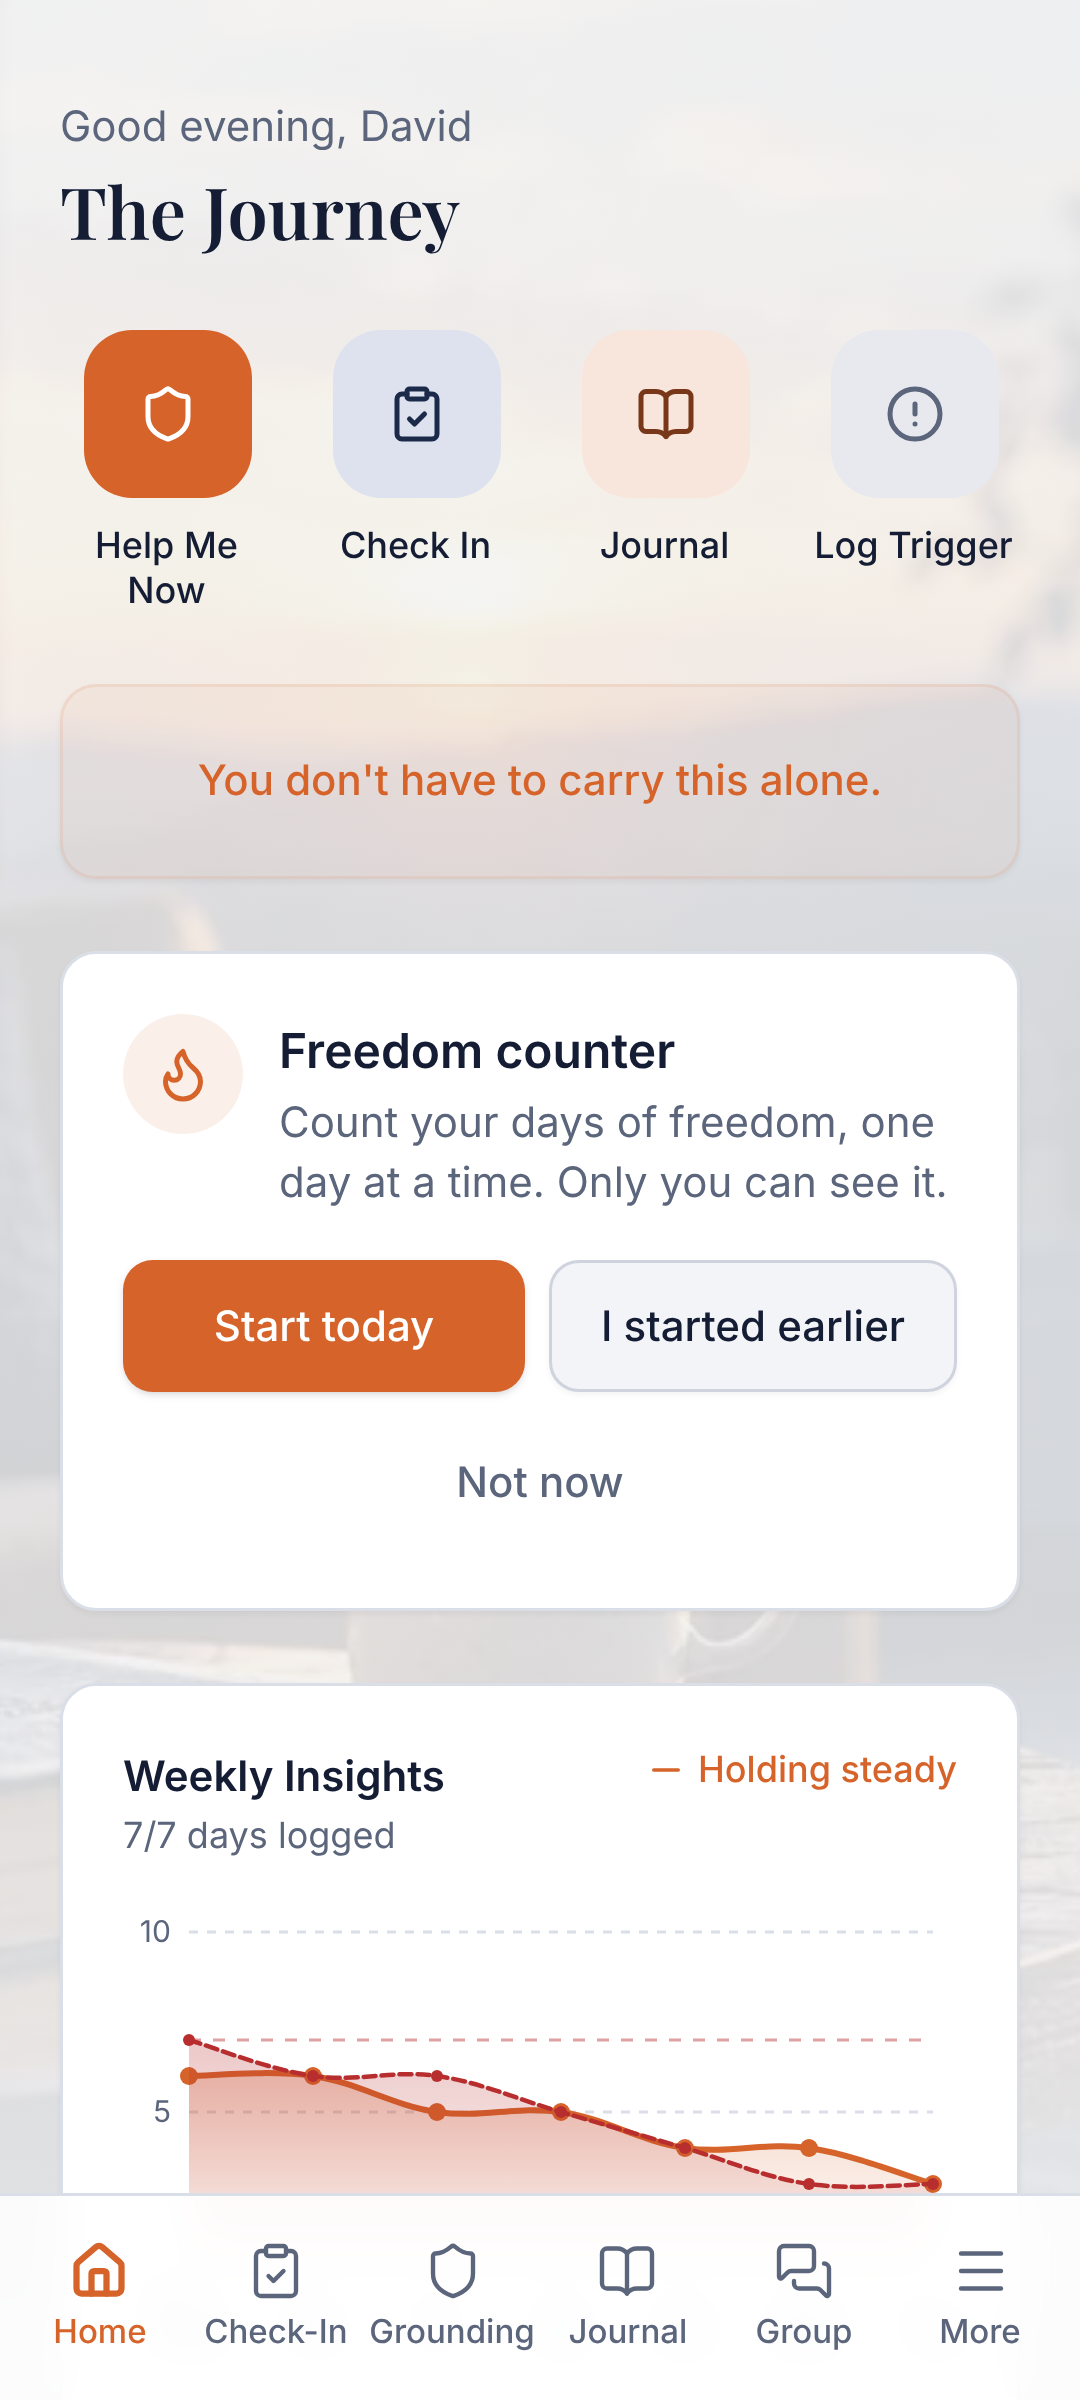
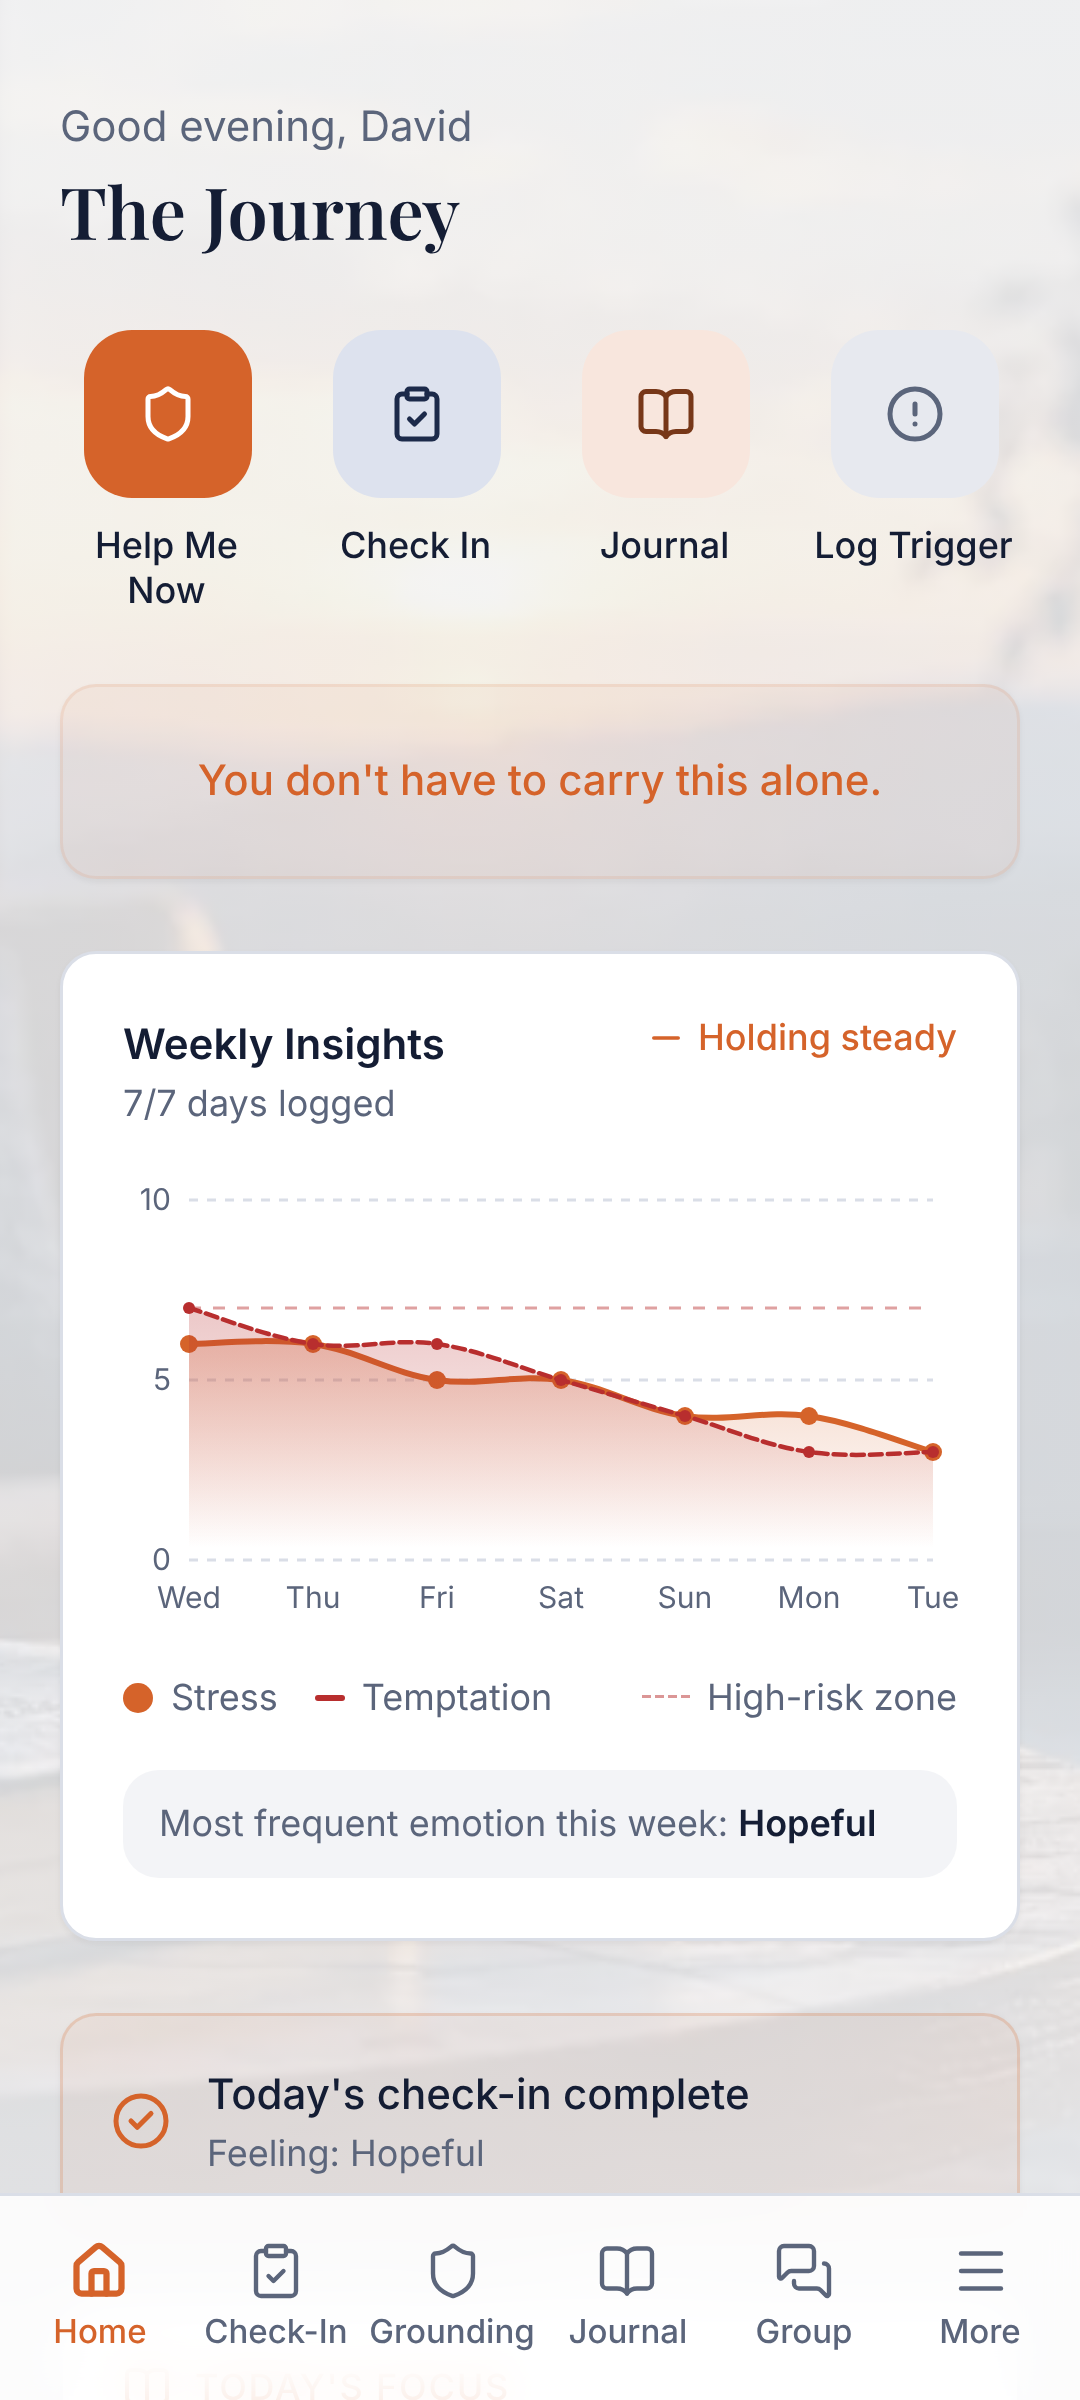
Freedom counter at the bottom of Home, with a small badge at the top
- The full freedom counter card now sits below the other Home items.
- A small badge in the top-right corner of Home shows the flame,
  "Freedom", the day count and "Days of Freedom"; tapping it scrolls
  to the full counter. It appears once the counter has started and
  follows the Settings show/hide switch.

Claude-Session: https://claude.ai/code/session_01TEFAANzDiQcpsyVRuxpyzX

Changed region(s): [[0.0306, 0.6562, 0.9472, 0.9375], [0.0917, 0.4062, 0.8861, 0.625], [0.6417, 0.4062, 0.8861, 0.4375]]

diff --git a/src/components/FreedomCard.tsx b/src/components/FreedomCard.tsx
@@ -60,7 +60,7 @@ export function FreedomCard({ profile, onReachOut }: { profile: Profile; onReach
 
   if (!profile.freedom_start) {
     return (
-      <Card className="space-y-4 p-5">
+      <Card id="freedom" className="scroll-mt-6 space-y-4 p-5">
         <div className="flex items-start gap-3">
           <span className="flex size-10 shrink-0 items-center justify-center rounded-full bg-primary/10 text-primary">
             <Flame className="size-5" aria-hidden="true" />
@@ -111,7 +111,7 @@ export function FreedomCard({ profile, onReachOut }: { profile: Profile; onReach
   const best = Math.max(profile.freedom_best_days, days)
 
   return (
-    <Card className="space-y-4 p-5">
+    <Card id="freedom" className="scroll-mt-6 space-y-4 p-5">
       <div className="flex items-start justify-between gap-3">
         <div>
           <p className="flex items-center gap-1.5 text-xs font-semibold uppercase tracking-wide text-primary">
@@ -302,5 +302,36 @@ function Celebration({ days, shareKey }: { days: number; shareKey: string }) {
         {shared && <p className="text-xs font-medium text-primary">Shared with your group.</p>}
       </div>
     </div>
+  )
+}
+
+/** Small corner badge on Home: the day count. Tapping it scrolls to the full counter. */
+export function FreedomBadge({ profile }: { profile: Profile }) {
+  if (profile.track !== 'men' || profile.freedom_hidden || !profile.freedom_start) return null
+  const days = daysOfFreedom(profile.freedom_start)
+  return (
+    <a
+      href="#freedom"
+      onClick={(e) => {
+        e.preventDefault()
+        document.getElementById('freedom')?.scrollIntoView({ behavior: 'smooth', block: 'start' })
+      }}
+      aria-label={
+        days === 0
+          ? 'Day 1 of freedom. Show freedom counter'
+          : `${days} days of freedom. Show freedom counter`
+      }
+      className="flex min-w-[5.5rem] shrink-0 flex-col items-center rounded-xl border border-primary/20 bg-card/90 px-3 py-2 text-center shadow-xs transition-colors hover:bg-primary/5 active:scale-[0.98]"
+    >
+      <span className="flex items-center gap-1 text-[10px] font-semibold uppercase tracking-wide text-primary">
+        <Flame className="size-3" aria-hidden="true" /> Freedom
+      </span>
+      <span className="mt-0.5 font-display text-2xl font-semibold leading-none text-foreground">
+        {days === 0 ? 'Day 1' : days}
+      </span>
+      <span className="mt-0.5 text-[10px] leading-tight text-muted-foreground">
+        {days === 1 ? 'Day of Freedom' : 'Days of Freedom'}
+      </span>
+    </a>
   )
 }

diff --git a/tests/e2e/journey.spec.ts b/tests/e2e/journey.spec.ts
@@ -595,7 +595,7 @@ test('freedom counter: start, milestones, and starting again with grace', async 
   const card = page.getByText('Freedom counter')
   await expect(card).toBeVisible()
   await page.getByRole('button', { name: 'Start today' }).click()
-  await expect(page.getByText('Day 1', { exact: true })).toBeVisible()
+  await expect(page.locator('#freedom').getByText('Day 1', { exact: true })).toBeVisible()
   await expect(page.getByText(/1 day to 1 day/)).toBeVisible()
 
   // Started 30 days ago: a milestone to celebrate.
@@ -608,6 +608,10 @@ test('freedom counter: start, milestones, and starting again with grace', async 
   await page.getByLabel('My current stretch of freedom began on').fill(thirtyDaysAgo)
   await page.getByRole('button', { name: 'Save' }).click()
   await expect(page.getByText('30 days of freedom!')).toBeVisible()
+  // The small badge at the top shows the count too, and jumps to the counter.
+  const badge = page.getByRole('link', { name: '30 days of freedom. Show freedom counter' })
+  await expect(badge).toBeVisible()
+  await expect(badge).toContainText('Days of Freedom')
   await expect(page.getByText(/30 days to 60 days/)).toBeVisible()
 
   // Starting again: grace, not shame, and the longest stretch is kept.
@@ -616,7 +620,7 @@ test('freedom counter: start, milestones, and starting again with grace', async 
   await expect(grace.getByText(/new every morning/)).toBeVisible()
   await expect(grace.getByText(/Your 30 days still count/)).toBeVisible()
   await grace.getByRole('button', { name: 'Start again today' }).click()
-  await expect(page.getByText('Day 1', { exact: true })).toBeVisible()
+  await expect(page.locator('#freedom').getByText('Day 1', { exact: true })).toBeVisible()
   await expect(page.getByText(/Longest: 30 days/)).toBeVisible()
 
   // It can be hidden in Settings.
@@ -625,7 +629,7 @@ test('freedom counter: start, milestones, and starting again with grace', async 
   await page.getByRole('button', { name: 'Save Settings' }).click()
   await page.goto('/home')
   await expect(page.getByRole('heading', { name: 'The Journey' })).toBeVisible()
-  await expect(page.getByText(/of freedom|Day 1/)).toHaveCount(0)
+  await expect(page.getByText(/of freedom|Day 1/i)).toHaveCount(0)
 
   expect(errors).toEqual([])
 })

diff --git a/src/pages/Home.tsx b/src/pages/Home.tsx
@@ -16,7 +16,7 @@ import {
 } from 'lucide-react'
 import { paths } from '@/app/routes'
 import { AboutYouPrompt } from '@/components/AboutYouPrompt'
-import { FreedomCard } from '@/components/FreedomCard'
+import { FreedomBadge, FreedomCard } from '@/components/FreedomCard'
 import { InstallPrompt } from '@/components/InstallPrompt'
 import { NotificationsPrompt } from '@/components/NotificationsPrompt'
 import { PullToRefresh } from '@/components/PullToRefresh'
@@ -62,22 +62,25 @@ export default function Home() {
       onRefresh={() => Promise.all([profile.refetch(), today.refetch(), week.refetch(), contacts.refetch()])}
     >
       <div className="mx-auto max-w-lg space-y-6 px-5 pb-4 pt-8">
-        <header>
-          <p className="text-sm text-muted-foreground">
-            {greeting()}
-            {name ? `, ${name}` : ''}
-          </p>
-          <h1 className="mt-0.5 font-display text-2xl font-semibold text-foreground">The Journey</h1>
+        <header className="flex items-start justify-between gap-3">
+          <div className="min-w-0">
+            <p className="text-sm text-muted-foreground">
+              {greeting()}
+              {name ? `, ${name}` : ''}
+            </p>
+            <h1 className="mt-0.5 font-display text-2xl font-semibold text-foreground">The Journey</h1>
+          </div>
+          <FreedomBadge profile={profile.data} />
         </header>
         {!profile.data.gender && <AboutYouPrompt profileId={profile.data.id} />}
         <NotificationsPrompt />
         <InstallPrompt />
         <QuickActions onHelp={() => setHelpOpen(true)} />
         <Encouragement track={track} />
-        <FreedomCard profile={profile.data} onReachOut={() => setHelpOpen(true)} />
         <WeeklyInsights track={track} />
         <TodayCheckInCard checkIn={today.data ?? null} />
         <TodaysFocus track={track} />
+        <FreedomCard profile={profile.data} onReachOut={() => setHelpOpen(true)} />
       </div>
       <SupportSheet open={helpOpen} onOpenChange={setHelpOpen} todayCheckIn={today.data ?? null} />
     </PullToRefresh>
